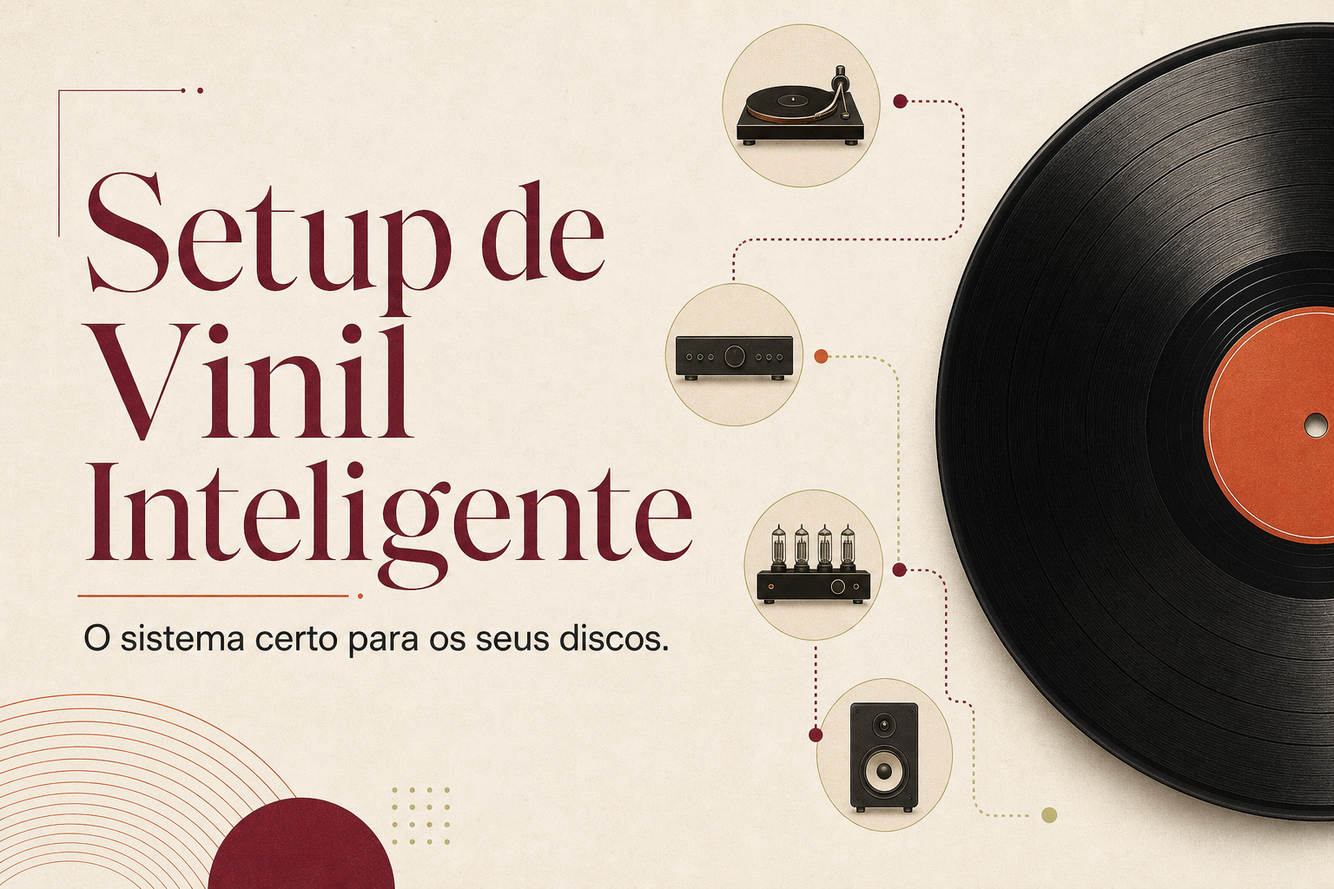
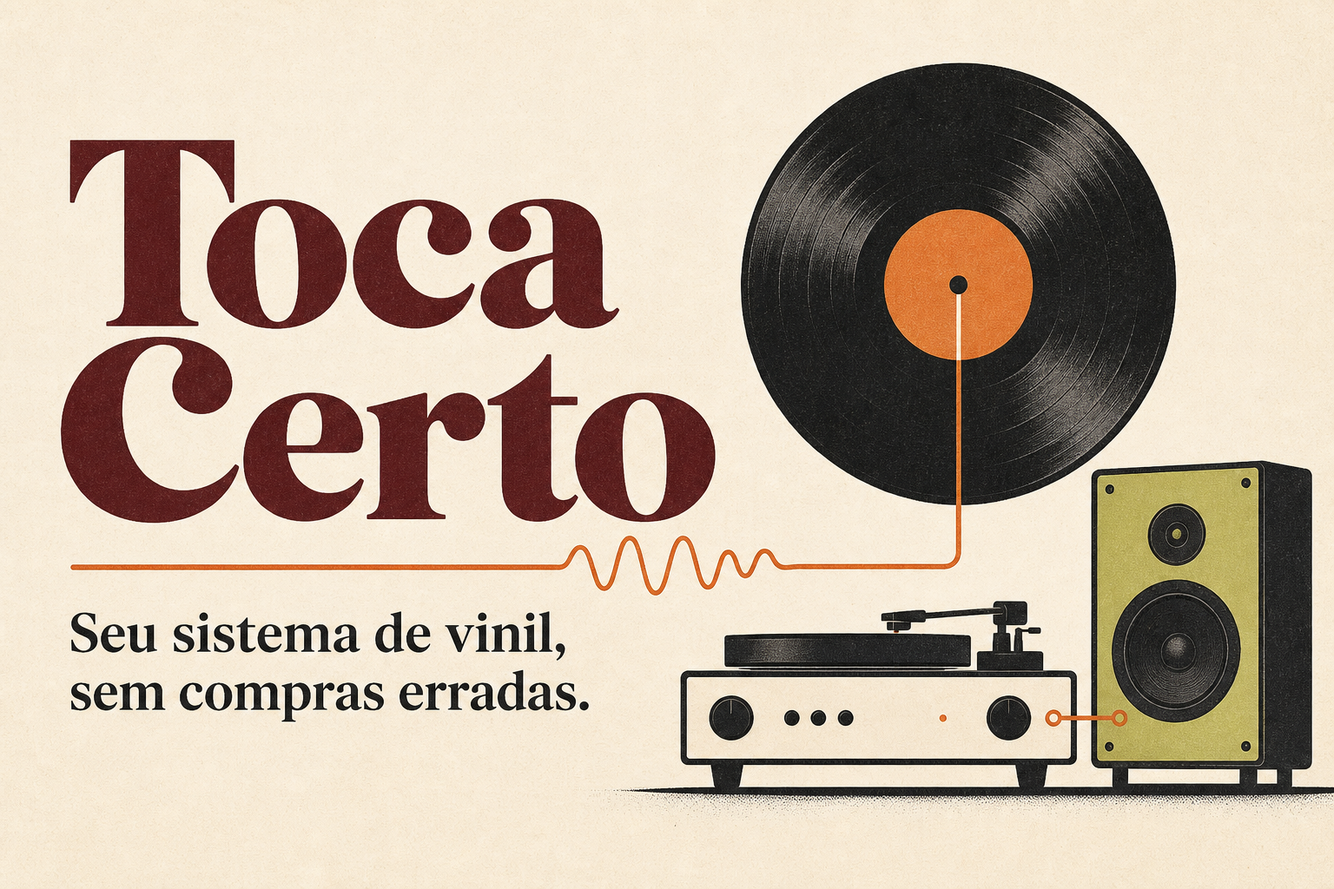
Add Toca Certo VTSD landing page

diff --git a/app/globals.css b/app/globals.css
@@ -15,3 +15,17 @@
 @media(max-width:820px){.landing{padding:0 24px}.hero{max-width:none;padding-top:4.5rem}.hero h1{font-size:clamp(3rem,13vw,5.8rem)}.record{width:330px;right:-190px;top:145px;opacity:.17}.page{padding:0 20px}.layout aside{display:none}.layout{display:block;padding:2rem 0 5rem}.mobileProgress{display:block;padding:1.1rem 0}.mobileProgress>span,.mobileProgress>b{font-size:.72rem}.mobileProgress>b{float:right}.mobileProgress>i{display:block;clear:both;height:4px;background:#dfd8cb;border-radius:99px;overflow:hidden;margin-top:.6rem}.mobileProgress em{display:block;height:100%;background:var(--wine)}.choices.cols3{grid-template-columns:1fr}}
 @media(max-width:560px){.brand,.top{height:65px}.brand>span,.top span{max-width:190px;font-size:.75rem}.hero{padding:3.5rem 0 4rem}.hero h1{font-size:3.15rem}.hero>p{font-size:.98rem}.facts{display:grid;grid-template-columns:1fr 1fr}.facts span:last-child{grid-column:1/-1}.hero .primary{width:100%}.intro{gap:.75rem}.intro h1{font-size:2.35rem}.choices.cols2,.checks{grid-template-columns:1fr}.question{padding:1.75rem 0}.layout footer{position:sticky;bottom:0;background:linear-gradient(transparent,var(--paper) 18%);padding:1.7rem 0 .8rem;z-index:5}.top small{font-size:0}.top small:after{content:"● Salvo";font-size:.68rem}.success{margin:3.5rem auto}}
 @media(prefers-reduced-motion:reduce){*{scroll-behavior:auto!important;transition:none!important}}
+
+/* Toca Certo — VTSD */
+.tc-page{overflow:hidden;background:var(--paper)}.tc-shell{width:min(1180px,calc(100% - 48px));margin-inline:auto}.tc-nav{height:82px;width:min(1180px,calc(100% - 48px));margin:auto;display:flex;align-items:center;justify-content:space-between;border-bottom:1px solid rgba(108,38,55,.12);position:relative;z-index:5}.tc-brand{display:flex;align-items:center;gap:.75rem;color:var(--ink);text-decoration:none}.tc-brand>span:last-child{font-size:.9rem;font-weight:850;line-height:1.05;display:grid}.tc-brand small{font-size:.49rem;color:var(--muted);font-weight:650;letter-spacing:.04em;margin-top:.28rem}.tc-logo{position:relative;width:35px;height:35px;border-radius:50%;display:block;background:repeating-radial-gradient(circle,#20211f 0 3px,#292b29 4px 5px);box-shadow:inset 0 0 0 1px #343634;flex:none}.tc-logo i{position:absolute;inset:11px;background:var(--orange);border-radius:50%;box-shadow:inset 0 0 0 5px var(--orange)}.tc-logo i:after{content:"";position:absolute;width:4px;height:4px;border-radius:50%;background:var(--paper);left:50%;top:50%;transform:translate(-50%,-50%)}.tc-logo b{position:absolute;width:16px;height:2px;background:var(--lime);right:-3px;top:7px;transform:rotate(63deg);transform-origin:right}.tc-nav-cta{font-size:.75rem;font-weight:800;text-decoration:none;color:var(--wine);border-bottom:1px solid var(--wine);padding:.4rem 0}
+.tc-hero{min-height:690px;display:grid;grid-template-columns:1.12fr .88fr;align-items:center;gap:5vw;padding-block:5.5rem 6.5rem}.tc-hero-copy{position:relative;z-index:2}.tc-eyebrow,.tc-kicker{display:block;color:var(--wine);text-transform:uppercase;letter-spacing:.15em;font-weight:900;font-size:.67rem}.tc-hero h1{font:500 clamp(3.7rem,6.5vw,6.6rem)/.91 Georgia,serif;letter-spacing:-.058em;max-width:790px;margin:1.1rem 0 1.8rem}.tc-hero h1 em{font-style:italic;color:var(--wine)}.tc-hero-copy>p{max-width:650px;color:var(--muted);font-size:1.08rem;line-height:1.65}.tc-actions{display:flex;align-items:center;gap:1.25rem;margin-top:2rem}.tc-actions small{color:#85837b;max-width:120px;font-size:.66rem;line-height:1.35}.tc-button{min-height:55px;padding:0 1.3rem;background:var(--wine);color:white;text-decoration:none;border-radius:8px;display:inline-flex;align-items:center;justify-content:space-between;gap:2.6rem;font-size:.79rem;font-weight:850;box-shadow:0 12px 28px rgba(108,38,55,.18);transition:.18s}.tc-button:hover{background:var(--wine2);transform:translateY(-2px)}.tc-button span{font-size:1.1rem}
+.tc-system{height:465px;position:relative;isolation:isolate}.tc-system:after{content:"";position:absolute;width:390px;height:390px;border-radius:50%;background:var(--lime);opacity:.72;right:0;top:15px;z-index:-2}.tc-turntable{position:absolute;width:330px;height:235px;background:#d8d0c4;border:1px solid #c7bdae;border-radius:8px;left:0;top:95px;transform:rotate(-3deg);box-shadow:0 35px 55px rgba(50,38,27,.18)}.tc-turntable:after{content:"";position:absolute;inset:auto 12px -14px;height:16px;background:#252725;border-radius:0 0 4px 4px}.tc-record{position:absolute;width:200px;height:200px;border-radius:50%;background:repeating-radial-gradient(circle,#171918 0 4px,#242625 5px 6px);left:24px;top:16px;box-shadow:0 7px 15px rgba(0,0,0,.2)}.tc-record i{position:absolute;inset:69px;background:var(--orange);border-radius:50%}.tc-record i:after{content:"";position:absolute;width:7px;height:7px;left:50%;top:50%;border-radius:50%;background:#191b1a;transform:translate(-50%,-50%)}.tc-arm{position:absolute;width:8px;height:153px;background:#a6a29a;right:55px;top:30px;transform:rotate(16deg);transform-origin:top;border-radius:4px;box-shadow:0 0 0 2px #eeebe4}.tc-arm:after{content:"";position:absolute;width:20px;height:26px;background:var(--wine);left:-6px;bottom:-11px;border-radius:2px}.tc-speaker{position:absolute;width:158px;height:285px;background:var(--wine2);right:0;top:135px;border-radius:6px;box-shadow:18px 30px 45px rgba(55,24,30,.22);display:grid;place-items:center}.tc-speaker:before{content:"";position:absolute;inset:9px;border:1px solid rgba(255,255,255,.12);border-radius:3px}.tc-speaker i,.tc-speaker b{position:absolute;border-radius:50%;background:#1f211f;border:9px solid #303330}.tc-speaker i{width:70px;height:70px;top:35px}.tc-speaker b{width:105px;height:105px;bottom:30px}.tc-speaker i:after,.tc-speaker b:after{content:"";position:absolute;inset:29%;border-radius:50%;background:#141615}.tc-cable{position:absolute;left:302px;top:321px;width:130px;height:70px;border-right:2px solid var(--orange);border-bottom:2px solid var(--orange);border-radius:0 0 55px 0}.tc-cable i{position:absolute;width:5px;height:5px;background:var(--orange);border-radius:50%;right:-3px}.tc-system-note{position:absolute;right:6px;top:36px;text-align:right;font:italic 1.05rem/1.3 Georgia,serif;color:var(--wine);transform:rotate(-2deg)}
+.tc-section-heading{max-width:720px}.tc-section-heading h2{font:500 clamp(2.8rem,4.7vw,4.65rem)/.98 Georgia,serif;letter-spacing:-.045em;margin:.8rem 0 1.15rem}.tc-section-heading>p{color:var(--muted);line-height:1.7;max-width:650px}.tc-problem{padding-block:8rem}.tc-doubts{display:grid;grid-template-columns:repeat(3,1fr);margin-top:3rem;border-top:1px solid var(--line);border-left:1px solid var(--line)}.tc-doubts article{min-height:135px;padding:1.4rem;border-right:1px solid var(--line);border-bottom:1px solid var(--line);background:rgba(255,253,248,.35)}.tc-doubts span{font-size:.61rem;font-weight:900;color:var(--orange)}.tc-doubts p{font:500 1.16rem/1.25 Georgia,serif;margin:1rem 0 0;max-width:250px}.tc-warning{margin-top:2.5rem;background:#eadfd8;border-left:4px solid var(--orange);padding:1.25rem 1.5rem;display:flex;align-items:baseline;gap:1rem}.tc-warning strong{color:var(--wine);white-space:nowrap}.tc-warning p{margin:0;color:var(--muted);line-height:1.55;font-size:.85rem}
+.tc-paths{background:var(--green);color:#fff;padding-block:8rem;position:relative}.tc-paths:after{content:"";position:absolute;inset:0;background:radial-gradient(circle at 85% 15%,rgba(220,233,167,.12),transparent 28rem);pointer-events:none}.tc-light .tc-kicker{color:var(--lime)}.tc-light h2{max-width:870px}.tc-path-grid{display:grid;grid-template-columns:1fr 1fr;gap:1px;background:rgba(255,255,255,.15);margin-top:3rem;position:relative;z-index:1}.tc-path-grid article{padding:3rem;background:var(--green)}.tc-path-grid article>span{font-size:.65rem;color:var(--lime);font-weight:900}.tc-path-grid h3{font:500 2.35rem Georgia,serif;margin:1rem 0}.tc-path-grid p{color:rgba(255,255,255,.7);line-height:1.65;max-width:470px}.tc-path-grid ul{padding:1.2rem 0 0;margin:1.5rem 0 0;list-style:none;border-top:1px solid rgba(255,255,255,.12)}.tc-path-grid li{font-size:.78rem;margin:.65rem 0;color:#f2f3eb}.tc-path-grid li:before{content:"↗";color:var(--lime);margin-right:.65rem}
+.tc-how{padding-block:8rem}.tc-steps{display:grid;grid-template-columns:repeat(3,1fr);gap:2rem;margin-top:3.5rem}.tc-steps article{position:relative;padding:2rem 1.8rem 2.2rem;background:var(--card);border:1px solid var(--line);border-radius:10px;box-shadow:0 15px 45px rgba(70,50,35,.05)}.tc-steps article>b{width:34px;height:34px;border-radius:50%;background:var(--lime);color:#3f4927;display:grid;place-items:center;font-size:.75rem}.tc-steps h3{font:500 1.55rem/1.08 Georgia,serif;margin:2.4rem 0 .8rem}.tc-steps p{color:var(--muted);font-size:.82rem;line-height:1.65;margin:0}.tc-steps article:not(:last-child):after{content:"→";position:absolute;right:-1.35rem;top:50%;color:var(--orange);font-size:1.1rem;z-index:3}
+.tc-delivery{padding-block:8rem;background:#e9e3d8}.tc-delivery-grid{display:grid;grid-template-columns:1fr 420px;gap:7vw;align-items:center}.tc-deliverables{margin-top:2.5rem}.tc-deliverables article{display:flex;gap:1rem;border-top:1px solid #d1c8ba;padding:1.1rem 0}.tc-deliverables article>span{width:27px;height:27px;border:1px solid #b9ac9a;border-radius:50%;display:grid;place-items:center;font-size:.6rem;color:var(--wine);flex:none}.tc-deliverables h3{font-size:.85rem;margin:.1rem 0 .28rem}.tc-deliverables p{font-size:.75rem;color:var(--muted);line-height:1.5;margin:0;max-width:550px}.tc-report{background:var(--card);border-radius:8px;padding:1.8rem;box-shadow:0 30px 70px rgba(62,45,34,.18);transform:rotate(1.2deg);border-top:7px solid var(--wine)}.tc-report>small{display:block;color:var(--orange);text-align:right;text-transform:uppercase;font-size:.52rem;letter-spacing:.12em;font-weight:900}.tc-report header{display:flex;align-items:center;gap:.7rem;padding:.8rem 0 1.2rem;border-bottom:1px solid var(--line)}.tc-report header .tc-logo{width:28px;height:28px}.tc-report header .tc-logo i{inset:9px}.tc-report header div{display:grid}.tc-report header b{font:500 1.05rem Georgia,serif}.tc-report header span{font-size:.55rem;color:var(--muted);margin-top:.18rem}.tc-report-profile{padding:1.15rem;background:#f0ece4;margin:1rem 0;border-radius:5px}.tc-report-profile i{display:block;color:var(--wine);font-size:.56rem;text-transform:uppercase;font-style:normal;font-weight:900}.tc-report-profile strong{display:block;font-size:.73rem;margin:.4rem 0}.tc-report-profile p{font-size:.59rem;color:var(--muted);margin:0}.tc-report-option{position:relative;background:var(--green);color:white;padding:1rem;border-radius:5px}.tc-report-option>span{font-size:.51rem;text-transform:uppercase;color:var(--lime);font-weight:900}.tc-report-option strong{display:block;font:500 1.2rem Georgia,serif;margin:.4rem 0}.tc-report-option p{font-size:.63rem;color:rgba(255,255,255,.7);margin:0}.tc-report-option>b{position:absolute;right:1rem;bottom:1rem;font-size:.76rem}.tc-report-row{display:flex;justify-content:space-between;padding:.9rem .3rem;border-bottom:1px solid var(--line);font-size:.65rem}.tc-report footer{display:flex;gap:.7rem;padding-top:1rem;flex-wrap:wrap}.tc-report footer i{font-size:.52rem;color:var(--green);font-style:normal;background:#e9eedf;padding:.35rem .45rem;border-radius:3px}
+.tc-story{padding-block:9rem;display:grid;grid-template-columns:1.15fr .85fr;gap:7vw;align-items:center}.tc-story-quote{position:relative}.tc-story-quote>span{position:absolute;font:500 10rem Georgia,serif;color:var(--orange);opacity:.2;top:-5rem;left:-1rem}.tc-story-quote h2{font:italic 500 clamp(2.7rem,4.3vw,4.4rem)/1.03 Georgia,serif;letter-spacing:-.04em;margin:0;position:relative}.tc-story-copy{border-left:1px solid var(--line);padding-left:2.5rem}.tc-story-copy p{color:var(--muted);line-height:1.75;font-size:.88rem}.tc-story-copy .tc-kicker{margin-bottom:1.5rem}.tc-manifesto{background:var(--wine);color:#fff;text-align:center;padding-block:6rem}.tc-manifesto .tc-logo{margin:0 auto 1.8rem}.tc-manifesto p{font-size:.77rem;text-transform:uppercase;letter-spacing:.12em;color:var(--lime);font-weight:900}.tc-manifesto h2{font:500 clamp(2.8rem,5vw,5.2rem)/.98 Georgia,serif;letter-spacing:-.045em;max-width:960px;margin:1rem auto 0}
+.tc-offer{padding-block:9rem;display:grid;grid-template-columns:1fr 470px;gap:8vw;align-items:center}.tc-offer-intro h2{font:500 clamp(3rem,5vw,5rem)/.98 Georgia,serif;letter-spacing:-.045em;margin:.8rem 0 1.2rem}.tc-offer-intro>p{color:var(--muted);line-height:1.65;max-width:590px}.tc-price{margin:2.5rem 0 .6rem;color:var(--wine);display:flex;align-items:baseline}.tc-price small{display:block;width:100%;font-size:.62rem;text-transform:uppercase;letter-spacing:.12em;font-weight:900;position:absolute}.tc-price span{font-size:1rem;font-weight:900;margin-right:.35rem;padding-top:1.8rem}.tc-price strong{font:500 5.7rem Georgia,serif;letter-spacing:-.06em}.tc-deadline{font-size:.72rem!important;max-width:380px!important}.tc-offer-card{background:var(--green);color:white;padding:2.4rem;border-radius:11px;box-shadow:0 30px 70px rgba(57,87,70,.18)}.tc-offer-card h3{font:500 1.8rem Georgia,serif;margin:0 0 1.5rem}.tc-offer-card ul{list-style:none;margin:0 0 1.8rem;padding:0}.tc-offer-card li{font-size:.77rem;padding:.58rem 0;border-bottom:1px solid rgba(255,255,255,.11)}.tc-offer-card li:before{content:"✓";color:var(--lime);font-weight:900;margin-right:.65rem}.tc-offer-card .tc-button{width:100%;background:var(--lime);color:#354126;box-shadow:none}.tc-offer-card>small{display:block;color:rgba(255,255,255,.55);font-size:.6rem;text-align:center;margin-top:.8rem}.tc-guarantee{padding:2.5rem 3rem!important;background:#e7e0d5;border-radius:9px;display:grid;grid-template-columns:190px 1fr;gap:2rem;align-items:start}.tc-guarantee>span{font-size:.62rem;text-transform:uppercase;letter-spacing:.12em;color:var(--orange);font-weight:900}.tc-guarantee h2{font:500 1.8rem Georgia,serif;margin:0 0 .6rem}.tc-guarantee p{color:var(--muted);line-height:1.65;font-size:.78rem;max-width:700px;margin:0}
+.tc-faq{padding-block:9rem}.tc-faq-list{margin-top:2.8rem;border-top:1px solid var(--line)}.tc-faq details{border-bottom:1px solid var(--line)}.tc-faq summary{cursor:pointer;list-style:none;padding:1.4rem 0;display:flex;align-items:center;justify-content:space-between;font-weight:800;font-size:.9rem}.tc-faq summary::-webkit-details-marker{display:none}.tc-faq summary span{color:var(--orange);font-size:1.25rem;font-weight:400}.tc-faq details[open] summary span{transform:rotate(45deg)}.tc-faq details p{max-width:780px;color:var(--muted);line-height:1.7;font-size:.82rem;margin:0;padding:0 0 1.5rem}.tc-beta{background:#242624;color:#fff;padding-block:7rem;text-align:center}.tc-beta .tc-eyebrow{color:var(--lime)}.tc-beta h2{font:500 clamp(3rem,5vw,5rem)/.98 Georgia,serif;margin:.9rem auto 1.2rem}.tc-beta p{max-width:690px;margin:0 auto 2rem;color:rgba(255,255,255,.65);line-height:1.7;font-size:.87rem}.tc-button-light{background:var(--orange);box-shadow:none}.tc-footer{padding-block:3rem;display:flex;align-items:center;justify-content:space-between}.tc-footer>div{text-align:right}.tc-footer p{font-size:.68rem;color:var(--muted);margin:0 0 .35rem}.tc-footer a{font-size:.67rem;color:var(--wine);font-weight:800}
+@media(max-width:980px){.tc-hero{grid-template-columns:1fr;min-height:0}.tc-system{max-width:570px;width:100%;margin:0 auto}.tc-doubts{grid-template-columns:repeat(2,1fr)}.tc-delivery-grid,.tc-offer{grid-template-columns:1fr}.tc-report{width:min(440px,100%);margin:2rem auto 0}.tc-story{grid-template-columns:1fr}.tc-story-copy{max-width:700px}.tc-offer-card{width:min(530px,100%)}.tc-steps{gap:1rem}}
+@media(max-width:680px){.tc-shell,.tc-nav{width:min(100% - 36px,1180px)}.tc-nav{height:70px}.tc-brand small{display:none}.tc-nav-cta{font-size:.67rem}.tc-hero{padding-block:4.2rem 5rem;gap:2rem}.tc-hero h1{font-size:clamp(3.25rem,16vw,5rem)}.tc-hero-copy>p{font-size:.95rem}.tc-actions{align-items:stretch;flex-direction:column}.tc-actions .tc-button{width:100%}.tc-actions small{max-width:none;text-align:center}.tc-system{height:340px;transform:scale(.82);transform-origin:top left;width:122%;margin-bottom:-40px}.tc-system:after{right:15px}.tc-section-heading h2{font-size:2.75rem}.tc-problem,.tc-how,.tc-delivery,.tc-story,.tc-offer,.tc-faq{padding-block:5.5rem}.tc-doubts{grid-template-columns:1fr}.tc-doubts article{min-height:110px}.tc-warning{align-items:flex-start;flex-direction:column}.tc-warning strong{white-space:normal}.tc-paths{padding-block:5.5rem}.tc-path-grid,.tc-steps{grid-template-columns:1fr}.tc-path-grid article{padding:2rem}.tc-steps article:not(:last-child):after{content:"↓";right:50%;top:auto;bottom:-1.3rem}.tc-delivery-grid{gap:2rem}.tc-report{padding:1.2rem}.tc-story{gap:3rem}.tc-story-copy{padding-left:1.2rem}.tc-manifesto{padding-block:5rem}.tc-offer{gap:2.5rem}.tc-offer-intro h2{font-size:3rem}.tc-offer-card{padding:1.7rem}.tc-guarantee{grid-template-columns:1fr;padding:2rem!important;gap:1rem}.tc-footer{align-items:flex-start;gap:2rem}.tc-footer>div{text-align:right}.tc-footer p{display:none}}

diff --git a/app/page.tsx b/app/page.tsx
@@ -1,5 +1,130 @@
-import { Questionnaire } from "./Questionnaire";
+const doubts = [
+  "O toca-discos já possui pré-amplificador?",
+  "As caixas precisam ser ativas ou passivas?",
+  "Ainda será necessário um amplificador?",
+  "O Bluetooth envia ou apenas recebe áudio?",
+  "Quais cabos e adaptadores estão faltando?",
+  "Esse sistema poderá evoluir no futuro?",
+];
+
+const deliverables = [
+  ["Diagnóstico do seu perfil", "Objetivo, orçamento, espaço, equipamentos atuais e o nível de praticidade que você procura."],
+  ["Três possibilidades de setup", "Uma recomendação principal, uma alternativa econômica e outra com maior potencial de evolução."],
+  ["Comparativo claro", "Preço total, recursos, praticidade, limitações, compatibilidade e possibilidade de upgrade."],
+  ["Lista completa de compra", "Equipamentos, cabos, adaptadores e acessórios — inclusive aquilo que você não precisa comprar."],
+  ["Diagrama de conexão", "Uma representação simples de onde cada aparelho e cabo entra no sistema."],
+  ["Plano de upgrades", "O que melhorar primeiro, o que pode esperar e o que continuará útil no futuro."],
+];
+
+const faqs = [
+  ["Não posso pesquisar tudo sozinho?", "Pode. O projeto existe para reduzir o tempo de pesquisa, organizar a compatibilidade do sistema e evitar que você só descubra depois da compra que ainda faltam outros aparelhos."],
+  ["Vou receber apenas uma lista de produtos?", "Não. A recomendação começa pela arquitetura do sistema: o que será conectado, o que pode ser reaproveitado e quais recursos realmente importam para você."],
+  ["Tenho equipamentos antigos. Eles podem ser aproveitados?", "Possivelmente. O diagnóstico pede marca, modelo e fotos das conexões para identificar o que ainda faz sentido manter."],
+  ["E se os preços mudarem depois?", "O relatório registra os preços pesquisados e apresenta alternativas. Durante a revisão incluída, a recomendação pode ser ajustada caso uma opção fique indisponível antes da compra."],
+  ["As recomendações podem ter links comissionados?", "Sim, sempre identificados com transparência. A existência de comissão não substitui os critérios de compatibilidade e não impede a indicação de alternativas sem comissão."],
+  ["O serviço inclui conserto ou instalação?", "Não. O Toca Certo é um projeto de curadoria e orientação de compra. Não inclui reparo eletrônico, instalação presencial ou projeto acústico."],
+];
+
+function Logo() {
+  return <span className="tc-logo" aria-hidden="true"><i /><b /></span>;
+}
+
+function Brand() {
+  return <a className="tc-brand" href="#inicio"><Logo /><span>Toca Certo<small>Do primeiro toca-discos ao próximo upgrade</small></span></a>;
+}
 
 export default function Home() {
-  return <Questionnaire />;
+  return <main className="tc-page" id="inicio">
+    <nav className="tc-nav">
+      <Brand />
+      <a className="tc-nav-cta" href="#oferta">Conhecer o projeto</a>
+    </nav>
+
+    <section className="tc-hero tc-shell">
+      <div className="tc-hero-copy">
+        <span className="tc-eyebrow">Projeto personalizado para ouvir vinil</span>
+        <h1>Você já tem os discos. Agora monte o <em>sistema certo</em> para ouvi-los.</h1>
+        <p>Receba um projeto personalizado com toca-discos, caixas, amplificação, cabos e acessórios adequados ao seu orçamento, espaço e maneira de ouvir música.</p>
+        <div className="tc-actions">
+          <a className="tc-button" href="#oferta">Quero descobrir meu setup ideal <span>→</span></a>
+          <small>Edição beta · proposta inicial</small>
+        </div>
+      </div>
+      <div className="tc-system" aria-label="Ilustração de um toca-discos conectado a caixas">
+        <div className="tc-turntable"><span className="tc-record"><i /></span><span className="tc-arm" /></div>
+        <div className="tc-cable"><i /><i /><i /></div>
+        <div className="tc-speaker"><i /><b /></div>
+        <span className="tc-system-note">Um sistema completo.<br/>Não apenas um aparelho.</span>
+      </div>
+    </section>
+
+    <section className="tc-problem tc-shell">
+      <div className="tc-section-heading">
+        <span className="tc-kicker">Parece simples até começar a pesquisar</span>
+        <h2>Comprar um toca-discos é só uma parte da decisão.</h2>
+        <p>Um modelo pode parecer perfeito sozinho e ainda assim não funcionar com as caixas, exigir equipamentos extras ou limitar o próximo upgrade.</p>
+      </div>
+      <div className="tc-doubts">{doubts.map((item, index) => <article key={item}><span>{String(index + 1).padStart(2, "0")}</span><p>{item}</p></article>)}</div>
+      <div className="tc-warning"><strong>O risco não é apenas pagar caro.</strong><p>É comprar componentes incompatíveis, repetir funções, estourar o orçamento ou descobrir que o toca-discos não era o sistema completo.</p></div>
+    </section>
+
+    <section className="tc-paths">
+      <div className="tc-shell">
+        <div className="tc-section-heading tc-light"><span className="tc-kicker">Do ponto em que você está</span><h2>Dois momentos. O mesmo objetivo: fazer seu dinheiro tocar melhor.</h2></div>
+        <div className="tc-path-grid">
+          <article><span>01</span><h3>Meu Primeiro Setup</h3><p>Para quem já tem discos, mas ainda precisa montar um sistema completo, compatível e adequado ao orçamento.</p><ul><li>Definir a arquitetura do sistema</li><li>Escolher caixas e amplificação</li><li>Entender tudo o que precisa comprar</li></ul></article>
+          <article><span>02</span><h3>Meu Próximo Upgrade</h3><p>Para quem já possui equipamentos e quer descobrir o que aproveitar e qual mudança fará mais diferença.</p><ul><li>Identificar o principal ponto fraco</li><li>Evitar trocas desnecessárias</li><li>Organizar uma evolução por etapas</li></ul></article>
+        </div>
+      </div>
+    </section>
+
+    <section className="tc-how tc-shell">
+      <div className="tc-section-heading"><span className="tc-kicker">Como funciona</span><h2>Da sua realidade a um projeto que você consegue executar.</h2></div>
+      <div className="tc-steps">
+        <article><b>1</b><h3>Você responde ao diagnóstico</h3><p>Depois da compra, conta o que já possui, quanto pode gastar e como quer usar o sistema.</p></article>
+        <article><b>2</b><h3>O sistema é pesquisado como um todo</h3><p>Compatibilidade, preços, disponibilidade, praticidade, limitações e caminhos de evolução entram na análise.</p></article>
+        <article><b>3</b><h3>Você recebe um projeto claro</h3><p>Com opções comparadas, lista de compra, diagrama de conexão e explicações em linguagem acessível.</p></article>
+      </div>
+    </section>
+
+    <section className="tc-delivery">
+      <div className="tc-shell tc-delivery-grid">
+        <div>
+          <div className="tc-section-heading"><span className="tc-kicker">O que você recebe</span><h2>As respostas que faltavam antes de comprar.</h2></div>
+          <div className="tc-deliverables">{deliverables.map(([title, copy], index) => <article key={title}><span>{index + 1}</span><div><h3>{title}</h3><p>{copy}</p></div></article>)}</div>
+        </div>
+        <aside className="tc-report">
+          <small>Exemplo ilustrativo</small>
+          <header><Logo /><div><b>Seu projeto Toca Certo</b><span>Relatório personalizado</span></div></header>
+          <div className="tc-report-profile"><i>Perfil</i><strong>Primeiro sistema · até R$ 2.500</strong><p>Apartamento · caixas inclusas · prioridade em praticidade</p></div>
+          <div className="tc-report-option"><span>Recomendação principal</span><strong>Setup equilibrado</strong><p>Toca-discos → caixas ativas</p><b>R$ 2.340</b></div>
+          <div className="tc-report-row"><span>Alternativa econômica</span><b>R$ 1.890</b></div>
+          <div className="tc-report-row"><span>Opção evolutiva</span><b>R$ 2.940</b></div>
+          <footer><i>✓ Compatibilidade verificada</i><i>✓ Cabos incluídos na lista</i></footer>
+        </aside>
+      </div>
+    </section>
+
+    <section className="tc-story tc-shell">
+      <div className="tc-story-quote"><span>“</span><h2>Eu comprava discos de R$ 300, R$ 400 e até R$ 500 — mas continuava usando um toca-discos antigo.</h2></div>
+      <div className="tc-story-copy"><span className="tc-kicker">De onde veio a ideia</span><p>Quando fui pesquisar qual sistema comprar, percebi que escolher o toca-discos era apenas o começo. Era preciso entender pré-amplificação, caixas ativas e passivas, regulagem do braço, cápsulas, agulhas, amplificadores, cabos e até se o Bluetooth enviava ou recebia áudio.</p><p>O Toca Certo nasceu para organizar essa decisão: pesquisar, montar e explicar um sistema adequado à realidade de cada pessoa.</p></div>
+    </section>
+
+    <section className="tc-manifesto"><div className="tc-shell"><Logo /><p>Você não precisa do toca-discos mais caro.</p><h2>Precisa do sistema certo para o seu espaço, orçamento e forma de ouvir música.</h2></div></section>
+
+    <section className="tc-offer tc-shell" id="oferta">
+      <div className="tc-offer-intro"><span className="tc-kicker">Edição beta · proposta inicial</span><h2>Seu projeto completo, antes de gastar com os equipamentos.</h2><p>Esta é a configuração pensada para os primeiros clientes e ainda será validada durante o piloto.</p>
+        <div className="tc-price"><small>Valor beta provisório</small><span>R$</span><strong>67</strong></div><p className="tc-deadline">Entrega prevista em até 5 dias úteis após o envio completo das informações.</p>
+      </div>
+      <div className="tc-offer-card"><h3>Incluído no projeto</h3><ul><li>Diagnóstico personalizado do perfil</li><li>Três opções de setup</li><li>Comparativo de preços e recursos</li><li>Lista completa de compra</li><li>Diagrama de conexão</li><li>Explicação das escolhas e limitações</li><li>Plano de upgrades</li><li>Uma rodada de dúvidas</li><li>Uma revisão da recomendação</li></ul><a className="tc-button" href="#beta">Quero participar da beta <span>→</span></a><small>As primeiras vagas ainda não foram abertas.</small></div>
+    </section>
+
+    <section className="tc-guarantee tc-shell"><span>Revisão de satisfação</span><div><h2>O projeto precisa fazer sentido para a sua realidade.</h2><p>Se a recomendação não responder adequadamente às informações enviadas, você poderá solicitar uma revisão completa. Se, mesmo após a revisão, o projeto ainda não fizer sentido, o valor será devolvido.</p></div></section>
+
+    <section className="tc-faq tc-shell"><div className="tc-section-heading"><span className="tc-kicker">Perguntas frequentes</span><h2>Antes de colocar o primeiro disco.</h2></div><div className="tc-faq-list">{faqs.map(([question, answer]) => <details key={question}><summary>{question}<span>+</span></summary><p>{answer}</p></details>)}</div></section>
+
+    <section className="tc-beta" id="beta"><div className="tc-shell"><span className="tc-eyebrow">Estamos construindo a primeira edição</span><h2>Esta página também faz parte do teste.</h2><p>A oferta, o preço e alguns itens ainda serão refinados depois dos primeiros projetos. Por enquanto, ela serve para enxergar a proposta inteira e descobrir o que precisa ficar mais claro antes de abrir as vagas.</p><a className="tc-button tc-button-light" href="mailto:contato@tocacerto.com.br?subject=Quero%20acompanhar%20a%20beta%20do%20Toca%20Certo">Quero acompanhar a beta <span>→</span></a></div></section>
+
+    <footer className="tc-footer tc-shell"><Brand /><div><p>Projeto independente de curadoria para sistemas de vinil.</p><a href="/questionario">Visualizar questionário de teste</a></div></footer>
+  </main>;
 }

diff --git a/app/Questionnaire.tsx b/app/Questionnaire.tsx
@@ -76,7 +76,7 @@ export function Questionnaire() {
   const summary = useMemo(() => {
     const lines = Object.entries(answers).filter(([,v]) => Array.isArray(v) ? v.length : v.trim()).map(([k,v]) => `${labels[k]}: ${Array.isArray(v) ? v.join(", ") : v}`);
     if (files.length) lines.push(`Fotos selecionadas: ${files.join(", ")}`);
-    return `SETUP DE VINIL INTELIGENTE — TESTE\n\n${lines.join("\n")}`;
+    return `TOCA CERTO — QUESTIONÁRIO DE TESTE\n\n${lines.join("\n")}`;
   }, [answers, files]);
 
   function valid() {
@@ -104,7 +104,7 @@ export function Questionnaire() {
   async function copy() { await navigator.clipboard.writeText(summary); setCopied(true); setTimeout(() => setCopied(false), 2000); }
 
   if (!started) return <main className="landing">
-    <header className="brand"><Logo /><span>Setup de Vinil Inteligente</span><mark>Beta</mark></header>
+    <header className="brand"><Logo /><span>Toca Certo</span><mark>Pós-compra · teste</mark></header>
     <section className="hero">
       <div className="eyebrow">Seu sistema começa com as perguntas certas</div>
       <h1>Vamos descobrir o setup que faz sentido para você.</h1>
@@ -173,7 +173,7 @@ export function Questionnaire() {
 }
 
 function Logo() { return <i className="logo" aria-hidden="true"><b /></i>; }
-function Top({ beta = "Rascunho salvo" }: { beta?: string }) { return <header className="top"><div><Logo/><span>Setup de Vinil Inteligente</span></div><small>● {beta}</small></header>; }
+function Top({ beta = "Rascunho salvo" }: { beta?: string }) { return <header className="top"><div><Logo/><span>Toca Certo</span></div><small>● {beta}</small></header>; }
 function Record() { return <div className="record" aria-hidden="true"><i/><i/><i/><b><span>SEU<br/>SETUP</span></b></div>; }
 function Intro({n,title,text}:{n:string;title:string;text:string}) { return <div className="intro"><b>{n}</b><div><h1>{title}</h1><p>{text}</p></div></div>; }
 function Panel({children}:{children:React.ReactNode}) { return <div className="panel">{children}</div>; }

diff --git a/app/layout.tsx b/app/layout.tsx
@@ -7,13 +7,13 @@ export async function generateMetadata(): Promise<Metadata> {
   const host = requestHeaders.get("x-forwarded-host") ?? requestHeaders.get("host") ?? "localhost:3000";
   const protocol = requestHeaders.get("x-forwarded-proto") ?? (host.startsWith("localhost") ? "http" : "https");
   const image = `${protocol}://${host}/og.png`;
-  const description = "Descubra o sistema de vinil adequado ao seu orçamento, espaço e maneira de ouvir música.";
+  const description = "Um projeto personalizado para montar ou melhorar seu sistema de vinil sem compras incompatíveis ou desnecessárias.";
 
   return {
-    title: "Questionário | Setup de Vinil Inteligente",
+    title: "Toca Certo | O sistema certo para ouvir seus discos",
     description,
-    openGraph: { title: "Setup de Vinil Inteligente", description, images: [{ url: image, width: 1536, height: 1024 }] },
-    twitter: { card: "summary_large_image", title: "Setup de Vinil Inteligente", description, images: [image] },
+    openGraph: { title: "Toca Certo", description, images: [{ url: image, width: 1536, height: 1024 }] },
+    twitter: { card: "summary_large_image", title: "Toca Certo", description, images: [image] },
   };
 }
 

diff --git a/app/questionario/page.tsx b/app/questionario/page.tsx
@@ -1,0 +1,5 @@
+import { Questionnaire } from "../Questionnaire";
+
+export default function QuestionnairePage() {
+  return <Questionnaire />;
+}
